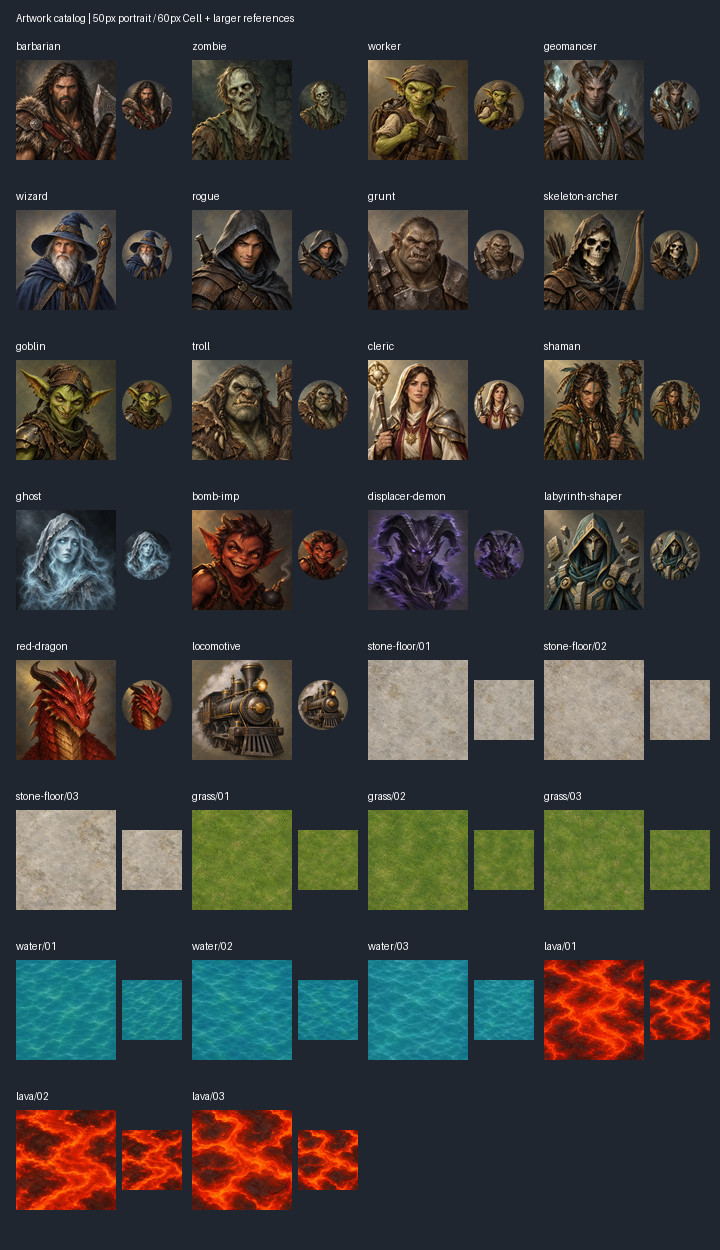
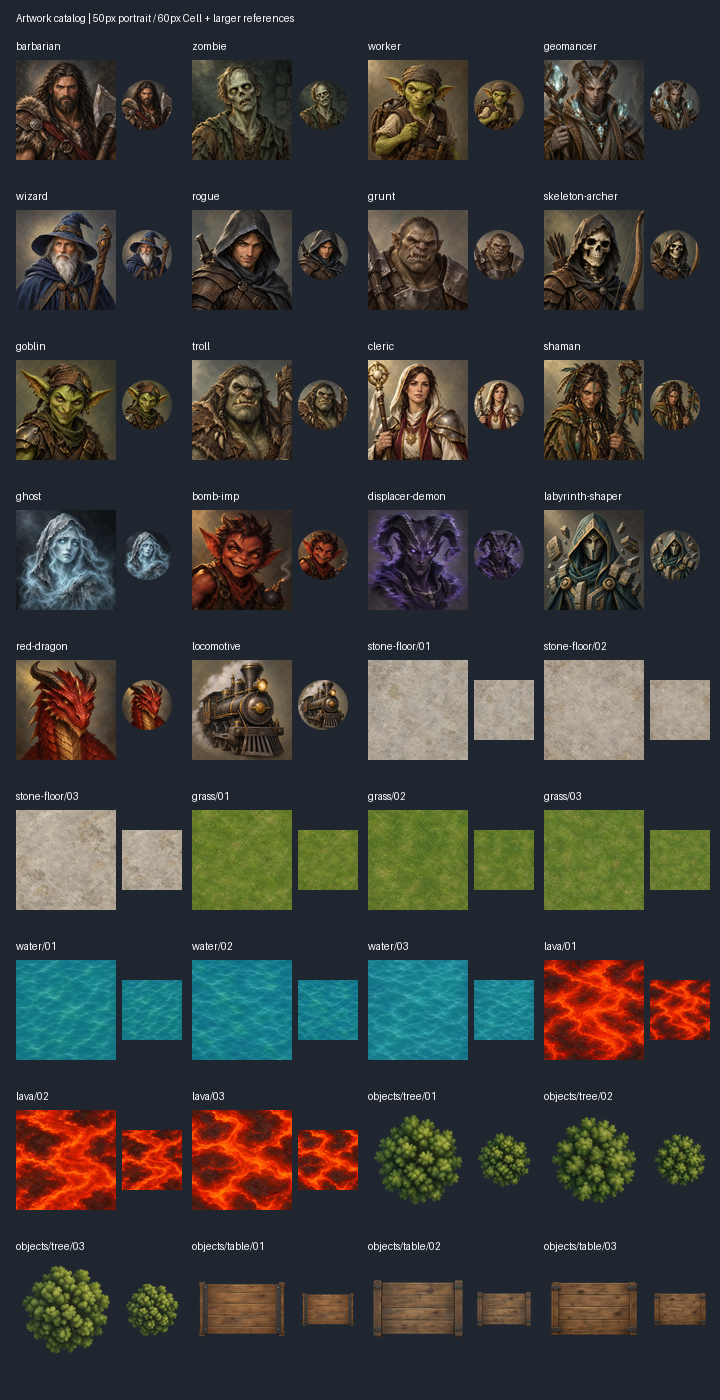
Add composite terrain artwork and deterministic rotation

diff --git a/ProjectDelve.Web/wwwroot/board-visuals.js b/ProjectDelve.Web/wwwroot/board-visuals.js
@@ -4,32 +4,34 @@
 export const boardVisuals = {
   terrain: {
     default: { fill: "#666a68", detail: "repeating-linear-gradient(0deg, transparent 0 48%, #242d3040 49% 51%, transparent 52% 100%)" },
-    StoneFloor: { fill: "#666a68", detail: "repeating-linear-gradient(90deg, transparent 0 48%, #29323855 49% 51%, transparent 52% 100%)",
+    StoneFloor: { rotation: true, fill: "#666a68", detail: "repeating-linear-gradient(90deg, transparent 0 48%, #29323855 49% 51%, transparent 52% 100%)",
       variants: [
         { fill: "#666a68", image: "./art/terrain/stone-floor/01.webp" },
         { fill: "#626864", image: "./art/terrain/stone-floor/02.webp" },
         { fill: "#6b6c65", image: "./art/terrain/stone-floor/03.webp" }
       ] },
-    Grass: { fill: "#476947", detail: "repeating-linear-gradient(115deg, transparent 0 7px, #abc27825 8px, transparent 10px)",
+    Grass: { rotation: true, fill: "#476947", detail: "repeating-linear-gradient(115deg, transparent 0 7px, #abc27825 8px, transparent 10px)",
       variants: [
         { image: "./art/terrain/grass/01.webp" },
         { image: "./art/terrain/grass/02.webp" },
         { image: "./art/terrain/grass/03.webp" }
       ] },
-    Tree: { fill: "#244737", detail: "radial-gradient(ellipse at 40% 40%, #638452 0 18%, #355b37 20% 43%, transparent 46%), radial-gradient(ellipse at 60% 60%, #436b40 0 38%, transparent 42%)" },
-    Water: { fill: "#266382", detail: "repeating-radial-gradient(ellipse at 15% 0%, transparent 0 8px, #9edce64a 9px 10px, transparent 12px 18px)",
+    Tree: { baseTerrain: "Grass", object: { rotation: true,
+      variants: [1, 2, 3].map(i => ({ image: `./art/terrain/objects/tree/0${i}.webp` })) }, fill: "#244737", detail: "radial-gradient(ellipse at 40% 40%, #638452 0 18%, #355b37 20% 43%, transparent 46%), radial-gradient(ellipse at 60% 60%, #436b40 0 38%, transparent 42%)" },
+    Water: { rotation: true, fill: "#266382", detail: "repeating-radial-gradient(ellipse at 15% 0%, transparent 0 8px, #9edce64a 9px 10px, transparent 12px 18px)",
       variants: [
         { image: "./art/terrain/water/01.webp" },
         { image: "./art/terrain/water/02.webp" },
         { image: "./art/terrain/water/03.webp" }
       ] },
-    Lava: { fill: "#a64420", detail: "repeating-linear-gradient(32deg, #352b2a 0 5px, transparent 7px 13px, #ffb349 15px 17px, transparent 19px 25px)",
+    Lava: { rotation: true, fill: "#a64420", detail: "repeating-linear-gradient(32deg, #352b2a 0 5px, transparent 7px 13px, #ffb349 15px 17px, transparent 19px 25px)",
       variants: [
         { image: "./art/terrain/lava/01.webp" },
         { image: "./art/terrain/lava/02.webp" },
         { image: "./art/terrain/lava/03.webp" }
       ] },
-    StoneFloorWithTable: { fill: "#636665", detail: "linear-gradient(90deg, transparent 16%, #291d17 17% 20%, #997049 21% 46%, #63462d 47% 50%, #997049 51% 79%, #291d17 80% 83%, transparent 84%)" },
+    StoneFloorWithTable: { baseTerrain: "StoneFloor", object: { rotation: true,
+      variants: [1, 2, 3].map(i => ({ image: `./art/terrain/objects/table/0${i}.webp` })) }, fill: "#636665", detail: "linear-gradient(90deg, transparent 16%, #291d17 17% 20%, #997049 21% 46%, #63462d 47% 50%, #997049 51% 79%, #291d17 80% 83%, transparent 84%)" },
     Rail: { fill: "#766d5d", detail: "repeating-linear-gradient(0deg, transparent 0 7px, #342e29 8px 12px, transparent 13px 18px)" }
   },
   unit: {
@@ -81,19 +83,55 @@ export function terrainVariantIndex(seed, id, x, y, count) {
   return count > 0 ? hash % count : 0;
 }
 
+// Independent FNV-1a domain for quarter turns. Never change terrain-v1.
+export function terrainRotation(seed, id, x, y, layer = "base") {
+  const input = JSON.stringify(["terrain-rotation-v1", String(seed), id, x, y, layer]);
+  let hash = 2166136261;
+  for (let i = 0; i < input.length; i++) {
+    const code = input.charCodeAt(i);
+    hash = Math.imul(hash ^ (code & 255), 16777619) >>> 0;
+    hash = Math.imul(hash ^ (code >>> 8), 16777619) >>> 0;
+  }
+  // Mix upper bits into the low bits before choosing one of four turns.
+  return ((hash ^ (hash >>> 16)) >>> 0) % 4 * 90;
+}
+
+export function terrainLayers(id, context = {}) {
+  const entry = Object.hasOwn(boardVisuals.terrain, id) ? boardVisuals.terrain[id] : {};
+  const seed = context.seed ?? "legacy", x = context.x ?? 0, y = context.y ?? 0;
+  const baseId = entry.baseTerrain ?? id;
+  const baseEntry = entry.baseTerrain ? (boardVisuals.terrain[baseId] ?? {}) : entry;
+  const variants = baseEntry.variants ?? [];
+  const index = terrainVariantIndex(seed, baseId, x, y, variants.length);
+  const base = { ...boardVisuals.terrain.default, ...baseEntry, ...variants[index], ...baseEntry.directions?.[context.direction] };
+  const objectVariants = entry.object?.variants ?? [];
+  const objectIndex = terrainVariantIndex(seed, `${id}:object`, x, y, objectVariants.length);
+  return {
+    base, index,
+    rotation: base.rotation ? terrainRotation(seed, id, x, y, "base") : 0,
+    object: entry.object ? { ...entry.object, ...objectVariants[objectIndex] } : null,
+    objectIndex,
+    objectRotation: entry.object?.rotation ? terrainRotation(seed, id, x, y, "object") : 0,
+    objectDetail: entry.detail ?? "none"
+  };
+}
+
 export function applyBoardVisual(node, category, id, context = {}) {
   const entries = boardVisuals[category];
   const entry = Object.hasOwn(entries, id) ? entries[id] : {};
-  const variants = entry.variants ?? [];
-  const index = category === "terrain" && variants.length
-    ? terrainVariantIndex(context.seed ?? "legacy", id, context.x ?? 0, context.y ?? 0, variants.length) : 0;
+  const layers = category === "terrain" ? terrainLayers(id, context) : null;
   // A directional image may override a variant without rotating directional Rail.
-  const visual = { ...entries.default, ...entry, ...variants[index], ...entry.directions?.[context.direction] };
+  const visual = layers?.base ?? { ...entries.default, ...entry, ...entry.variants?.[0], ...entry.directions?.[context.direction] };
   node.dataset.visualId = id ?? "";
-  node.dataset.visualVariant = String(index);
+  node.dataset.visualVariant = String(layers?.index ?? 0);
   node.style.setProperty("--visual-image", visual.image ? `url(${JSON.stringify(visual.image)})` : "none");
   node.style.setProperty("--visual-fill", visual.fill ?? "transparent");
   node.style.setProperty("--visual-detail", visual.detail ?? "none");
+  if (layers) {
+    node.dataset.visualRotation = String(layers.rotation);
+    node.style.setProperty("--visual-rotation", `${layers.rotation}deg`);
+    applyTerrainObject(node, layers);
+  }
   if (category === "edge") applyEdgeArtwork(node, visual.image);
   return visual;
 }
@@ -120,6 +158,50 @@ function applyEdgeArtwork(node, source) {
   }
   if (image.dataset.source !== source) {
     node.dataset.edgeArtwork = "loading";
+    image.dataset.source = source;
+    image.src = source;
+  }
+}
+
+function applyTerrainObject(node, layers) {
+  let image = node.terrainObjectArtwork;
+  if (!layers.object) {
+    image?.remove();
+    node.terrainObjectArtwork = null;
+    delete node.dataset.terrainObject;
+    delete node.dataset.objectArtwork;
+    delete node.dataset.objectVariant;
+    delete node.dataset.objectRotation;
+    return;
+  }
+  node.dataset.terrainObject = "true";
+  node.dataset.objectVariant = String(layers.objectIndex);
+  node.dataset.objectRotation = String(layers.objectRotation);
+  node.style.setProperty("--object-rotation", `${layers.objectRotation}deg`);
+  node.style.setProperty("--object-detail", layers.objectDetail);
+  if (!image) {
+    image = document.createElement("img");
+    image.className = "terrain-object-artwork";
+    image.alt = "";
+    image.draggable = false;
+    image.setAttribute("aria-hidden", "true");
+    node.terrainObjectArtwork = image;
+    image.addEventListener("load", () => {
+      if (node.terrainObjectArtwork === image) node.dataset.objectArtwork = "ready";
+    });
+    image.addEventListener("error", () => {
+      if (node.terrainObjectArtwork === image) node.dataset.objectArtwork = "missing";
+    });
+  }
+  // renderState clears Cell children even when it retains the Cell itself.
+  node.append(image);
+  const source = layers.object.image;
+  if (!source) {
+    node.dataset.objectArtwork = "missing";
+    image.removeAttribute("src");
+    delete image.dataset.source;
+  } else if (image.dataset.source !== source) {
+    node.dataset.objectArtwork = "loading";
     image.dataset.source = source;
     image.src = source;
   }

diff --git a/ProjectDelve.Web/wwwroot/board-enhanced.css b/ProjectDelve.Web/wwwroot/board-enhanced.css
@@ -2,6 +2,7 @@
 .board-view-toolbar { margin-bottom: 12px; }
 .board-scroll:has(#board[data-view="enhanced"]) { overflow: auto; padding: 5px; }
 .machine-art { display: none !important; }
+#board .terrain-object-artwork { display: none; pointer-events: none; }
 #board .edge-artwork { display: none; pointer-events: none; }
 #board[data-view="enhanced"] {
   /* Pan large boards instead of shrinking tokens and hit targets indefinitely. */
@@ -10,10 +11,29 @@
   background: #363f40;
 }
 #board[data-view="enhanced"] .cell {
-  position: relative; border-color: #202c32a0;
+  position: relative; isolation: isolate; border-color: #202c32a0;
+  background: var(--visual-fill);
+  background-size: cover; box-shadow: inset 0 1px #ffffff20, inset 1px 0 #ffffff12; color: #f3efdf;
+}
+/* Rotate decoration only. Negative stack levels stay inside the isolated Cell,
+   below content and outlines; square bounds stay fixed. */
+#board[data-view="enhanced"] .cell::before {
+  content: ""; position: absolute; inset: 0; z-index: -2; pointer-events: none;
   background-color: var(--visual-fill);
   background-image: var(--visual-image), var(--visual-detail), linear-gradient(145deg, #ffffff12, #00000026);
-  background-size: cover; box-shadow: inset 0 1px #ffffff20, inset 1px 0 #ffffff12; color: #f3efdf;
+  background-size: cover; background-position: center;
+  transform: rotate(var(--visual-rotation, 0deg));
+}
+#board[data-view="enhanced"] .cell[data-terrain-object]::after {
+  content: ""; position: absolute; inset: 0; z-index: -1; pointer-events: none;
+  background-image: var(--object-detail); background-size: cover;
+  transform: rotate(var(--object-rotation, 0deg));
+}
+#board[data-view="enhanced"] .cell[data-object-artwork="ready"]::after { display: none; }
+#board[data-view="enhanced"] .cell[data-object-artwork="ready"] .terrain-object-artwork {
+  display: block; position: absolute; inset: 0; z-index: -1;
+  width: 100%; height: 100%; object-fit: contain; object-position: center;
+  transform: rotate(var(--object-rotation, 0deg));
 }
 #board[data-view="enhanced"] .terrain-label { display: none; }
 #board[data-view="enhanced"] .cell-coordinates { position: absolute; top: 2%; left: 4%; z-index: 1; text-shadow: 0 1px 2px #000; }
@@ -88,7 +108,7 @@
 }
 /* Feedback stays above every material/artwork. */
 #board[data-view="enhanced"] .cell.legal { outline: 3px solid #9bdfff; outline-offset: -4px; box-shadow: inset 0 0 0 5px #153a51c0; }
-#board[data-view="enhanced"] .cell.placement-preview { box-shadow: inset 0 0 0 3px #ffe084; }
+#board[data-view="enhanced"] .cell.placement-preview { outline: 3px solid #ffe084; outline-offset: -3px; box-shadow: inset 0 0 0 3px #ffe084; }
 #board[data-view="enhanced"] .board-choice[aria-disabled="false"]:hover,
 #board[data-view="enhanced"] .board-choice:focus-visible,
 #board[data-view="enhanced"] .figure.affected-preview { outline: 3px solid #ffe084; outline-offset: -3px; }

diff --git a/tools/prepare-artwork.py b/tools/prepare-artwork.py
@@ -28,6 +28,8 @@ ASSETS = [
                    "labyrinth-shaper", "red-dragon", "locomotive")],
     *[(f"terrain/{name}-{i:02}.png", f"terrain/{name}/{i:02}.webp", 256)
       for name in ("stone-floor", "grass", "water", "lava") for i in range(1, 4)],
+    *[(f"terrain/objects/{name}-{i:02}.png", f"terrain/objects/{name}/{i:02}.webp", 256)
+      for name in ("tree", "table") for i in range(1, 4)],
     *[(f"edges/{name}.png", f"edges/{name}.webp", (512, 80)) for name in EDGE_CROPS],
 ]
 
@@ -47,12 +49,15 @@ def main():
             print(f"Source {name}: {original.size}, {original.mode}, {original.format}")
             if not name.startswith("edges/"):
                 assert original.width == original.height, f"Review non-square source: {name}"
-                if name.startswith("terrain/"):
+                if name.startswith("terrain/") and not name.startswith("terrain/objects/"):
                     assert original.convert("RGBA").getchannel("A").getextrema() == (255, 255), f"Review transparent terrain: {name}"
             else:
                 assert original.size == (1774, 887) and original.mode == "RGBA", f"Review changed Edge source: {name}"
                 bounds = original.getchannel("A").point(lambda a: 255 if a >= 8 else 0).getbbox()
                 assert bounds == EDGE_CROPS[Path(name).stem], f"Review changed Edge composition: {name}"
+            if name.startswith("terrain/objects/"):
+                alpha = original.convert("RGBA").getchannel("A")
+                assert alpha.getextrema()[0] == 0 and alpha.getextrema()[1] > 0, f"Review object alpha: {name}"
             assert getattr(original, "n_frames", 1) == 1, f"Review animated source: {name}"
 
     srgb = ImageCms.createProfile("sRGB")
@@ -88,7 +93,7 @@ def main():
             assert result.format == "WEBP"
             assert result.size == dimensions
             assert result.info.get("icc_profile") == profile
-            if name.startswith("terrain/"):
+            if name.startswith("terrain/") and not name.startswith("terrain/objects/"):
                 assert result.convert("RGBA").getchannel("A").getextrema() == (255, 255)
             if image.mode == "RGBA":
                 assert result.getchannel("A").tobytes() == image.getchannel("A").tobytes()
@@ -104,7 +109,9 @@ def main():
         print(f"Export {destination}: {dimensions[0]}x{dimensions[1]}, {target.stat().st_size:,} bytes")
 
     # Roughly 50px portraits (circular UI clip) and 60px Cells, plus larger references.
-    edge_preview(decoded[-3:])
+    edge_preview([image for asset, image in zip(assets, decoded) if asset[0].startswith("edges/")])
+    if not args.edges_only:
+        composite_preview(assets, decoded)
     assert all(sha256(path.read_bytes()).digest() == digest
                for path, digest in hashes.items()), "Source images changed"
     if args.edges_only:
@@ -117,10 +124,11 @@ def main():
         x, y = 16 + (i % 4) * 176, 40 + (i // 4) * 150
         label = Path(destination).with_suffix("").as_posix().replace("terrain/", "").replace("units/", "")
         draw.text((x, y), label, fill="white")
-        sheet.paste(image.resize((100, 100), Image.Resampling.LANCZOS), (x, y + 20))
+        reference = image.resize((100, 100), Image.Resampling.LANCZOS)
+        sheet.paste(reference, (x, y + 20), reference)
         is_portrait = Path(destination).parts[0] == "units"
         thumb = image.resize((50, 50) if is_portrait else (60, 60), Image.Resampling.LANCZOS)
-        mask = None
+        mask = thumb
         if is_portrait:
             mask = Image.new("L", (200, 200))
             ImageDraw.Draw(mask).ellipse((0, 0, 199, 199), fill=255)
@@ -129,6 +137,26 @@ def main():
     preview = ROOT / "assets/previews/artwork-pack-01.png"
     preview.parent.mkdir(parents=True, exist_ok=True)
     sheet.save(preview, optimize=True)
+
+
+def composite_preview(assets, images):
+    """Test-owned samples at minimum Cell scale, all base/object slots and turns."""
+    catalog = {asset[1]: image for asset, image in zip(assets, images)}
+    sheet = Image.new("RGB", (768, 520), "#202630")
+    draw = ImageDraw.Draw(sheet)
+    draw.text((12, 8), "Composite terrain | 60px Cells | base/object variants + independent turns", fill="white")
+    for row, (obj, base) in enumerate((("tree", "grass"), ("table", "stone-floor"))):
+        for variant in range(3):
+            for turn in range(4):
+                x = 12 + (variant * 4 + turn) * 62
+                y = 40 + row * 232
+                tile = catalog[f"terrain/{base}/{variant + 1:02}.webp"].rotate(turn * 90)
+                overlay = catalog[f"terrain/objects/{obj}/{(variant + turn) % 3 + 1:02}.webp"].rotate((turn + 1) * 90)
+                tile = Image.alpha_composite(tile, overlay)
+                sheet.paste(tile.resize((60, 60), Image.Resampling.LANCZOS), (x, y))
+                if turn == 0:
+                    sheet.paste(tile.resize((160, 160), Image.Resampling.LANCZOS), (12 + variant * 248, y + 64))
+    sheet.save(ROOT / "assets/previews/composite-terrain.png", optimize=True)
 
 
 def edge_preview(images):

diff --git a/tools/test_prepare_artwork.py b/tools/test_prepare_artwork.py
@@ -1,0 +1,46 @@
+"""Verify the registered transparent exports against their immutable originals.
+
+Run: python -m unittest discover -s tools -p test_prepare_artwork.py
+Requires the same Pillow/WebP environment as prepare-artwork.py.
+"""
+import importlib.util
+from io import BytesIO
+from pathlib import Path
+import unittest
+
+from PIL import Image, ImageCms, ImageOps
+
+spec = importlib.util.spec_from_file_location("prepare_artwork", Path(__file__).with_name("prepare-artwork.py"))
+pipeline = importlib.util.module_from_spec(spec)
+spec.loader.exec_module(pipeline)
+
+
+class CompositeArtworkTests(unittest.TestCase):
+    def test_transparent_object_registrations_and_lossless_resized_alpha(self):
+        registrations = {source: (destination, size) for source, destination, size in pipeline.ASSETS}
+        for name in ("tree", "table"):
+            for slot in range(1, 4):
+                source = f"terrain/objects/{name}-{slot:02}.png"
+                with self.subTest(source=source):
+                    destination, size = registrations[source]
+                    self.assertEqual(destination, f"terrain/objects/{name}/{slot:02}.webp")
+                    self.assertEqual(size, 256)
+                    with Image.open(pipeline.SOURCE / source) as original:
+                        original.load()
+                        self.assertEqual(original.format, "PNG")
+                        self.assertEqual(original.mode, "RGBA")
+                        expected = ImageOps.exif_transpose(original).resize((256, 256), Image.Resampling.LANCZOS)
+                    with Image.open(pipeline.OUTPUT / destination) as exported:
+                        exported.load()
+                        self.assertEqual(exported.format, "WEBP")
+                        self.assertEqual(exported.size, (256, 256))
+                        alpha = exported.getchannel("A")
+                        self.assertEqual(alpha.tobytes(), expected.getchannel("A").tobytes())
+                        self.assertEqual(alpha.getextrema()[0], 0)
+                        self.assertGreater(alpha.getextrema()[1], 0)
+                        self.assertEqual(ImageCms.getProfileName(ImageCms.ImageCmsProfile(
+                            BytesIO(exported.info['icc_profile']))).strip(), 'sRGB built-in')
+
+
+if __name__ == "__main__":
+    unittest.main()

diff --git a/README.md b/README.md
@@ -114,13 +114,28 @@ boardVisuals.terrain.Rail.directions = { North: { image: "./art/terrain/rail/nor
 boardVisuals.edge.Wall = { image: "./art/edges/wall.webp" };
 ```
 
-Portrait images use `object-fit: cover` in a circular clip; load failures preserve the abbreviation/icon. Terrain, Resource and Machine artwork layers use CSS `background-size: cover` over the fallback material. Edge artwork uses a proportional image child with loading/error fallbacks and 90° rotation for vertical use, as detailed below. Resource/Machine glyphs remain overlaid unless the catalog explicitly sets `glyph: ""`. Do not embed paths or image-loading logic in interactions. Variants are ordered arrays of descriptor overrides (`image`, `fill`, `detail`, `glyph`); category default, content entry, chosen variant, then optional direction overrides are merged in that order. Rail uses North/East/South/West; Edges use Horizontal/Vertical. No automatic image rotations change a Rail arrow.
+Portrait images use `object-fit: cover` in a circular clip; load failures preserve the abbreviation/icon. Terrain base, Resource and Machine artwork layers use CSS `background-size: cover` over the fallback material. Terrain bases rotate on a decorative pseudo-element; transparent terrain objects use a centered `object-fit: contain` image child. Edge artwork uses a proportional image child with loading/error fallbacks and 90° rotation for vertical use, as detailed below. Resource/Machine glyphs remain overlaid unless the catalog explicitly sets `glyph: ""`. Do not embed paths or image-loading logic in interactions. Variants are ordered arrays of descriptor overrides (`image`, `fill`, `detail`, `glyph`); category default, content entry, chosen variant, then optional direction overrides are merged in that order. Rail uses North/East/South/West; Edges use Horizontal/Vertical. No automatic image rotations change a Rail arrow.
 
 **Deterministic variants:** the host emits optional top-level `visualSeed` as browser presentation metadata in HTTP responses, streaming baselines, events and boundaries. `BoardAppearance.DeriveSeed` runs once at initial setup and each scenario replacement/restart. It computes `"board-v1:" + lowercaseHex(SHA256(UTF8(canonicalJSON)))`. Canonical JSON is the compact array `[1, scenarioId, width, height, cells, edges]`. Cells cover the full Board in y-then-x order as `[x,y,terrainKindName,railDirectionNameOrNull]`, treating omitted terrain as StoneFloor. None Edges are omitted; endpoints are normalized in y-then-x order, then Edges are sorted by first endpoint y/x and second endpoint y/x, and stored as `[ax,ay,bx,by,edgeKindName]`. Property/list insertion order and explicit default terrain do not affect the seed. Resources, Units, Machines, controllers, sessions and gameplay RNG are excluded. Imports use scenario ID `imported`, so different imported board materials/geometries can have different seeds; identical initial boards intentionally share distributions. Initial terrain/Edge edits can reroll the distribution, but runtime board changes never recompute the seed.
 
 For each terrain Cell, `terrainVariantIndex` hashes `JSON.stringify(["terrain-v1", String(seed), terrainContentId, x, y])` with FNV-1a over UTF-16LE bytes: unsigned 32-bit offset 2166136261, XOR each code unit's low byte then multiply by 16777619, then XOR its high byte and multiply again, using `Math.imul` and `>>> 0` after each multiplication. Take unsigned hash modulo variant count (zero for an empty list). This is independent of browser/runtime hash functions and randomness; fixed vectors cover ASCII and surrogate pairs. Array order/count is part of the visual asset contract, so changing it may change assigned artwork. Legacy responses without a seed use `scenario:${scenarioId ?? "legacy"}`. A future persisted explicit seed can replace the host's derivation at setup and use the same `visualSeed` field and selection algorithm; no engine or client interaction changes are needed.
 
 **First artwork pack specifications:** use the visual brief in `VISUAL_STYLE.md`; review the pilot set together at actual board scale before expanding it. Use sRGB WebP (PNG when alpha/quality needs it), no animation, and serve local static files through the catalog. Do not embed names, HP, Side colors, rings, frames, UI highlights, coordinates or rules text. Lighting should be consistent and details should remain legible when reduced to roughly 50 pixels.
+
+**Composite Terrain and rotation:** `Tree.baseTerrain = "Grass"` and `StoneFloorWithTable.baseTerrain = "StoneFloor"` reuse those base catalogs, including their existing three ordered slots and fallback materials. Each composite entry declares an `object` descriptor with three variants. Base variants use the base content ID with the unchanged `terrainVariantIndex`; object variants use `${terrainContentId}:object` as their separate ID. Neither count affects the other layer. These are presentation mappings only; Terrain kinds and properties remain authoritative and unchanged.
+
+`rotation: true` explicitly opts a descriptor into deterministic 0°/90°/180°/270° rotation. It is enabled on Stone Floor, Grass, Water, Lava, Tree objects and Table objects. Unit portraits, Edges, Rail, Machines and Resources have no such opt-in. `terrainRotation` hashes `JSON.stringify(["terrain-rotation-v1", String(seed), terrainContentId, x, y, layer])` with the same UTF-16LE FNV-1a byte operations described above, then uses `((hash ^ (hash >>> 16)) >>> 0) % 4 * 90`. The layer is `"base"` or `"object"`. Rotation uses neither variant counts nor gameplay RNG. It uses the existing host seed through refresh, rerender and playback without changing seed derivation or any Stone Floor variant vectors.
+
+Only decoration rotates; Cell geometry, pointers, legal choices and playback targets stay on the original nodes. Terrain decoration is clipped to the Cell and stays below Units, Resources, Machine labels, coordinates and interaction feedback. Object loading failures retain the existing Tree/Table material silhouette over the base; successful loads clear that silhouette so the artwork's alpha reveals the base. Missing base textures retain their material fallback. Classic View hides the object child and uses its existing terrain styles; the Level Designer is unchanged.
+
+The six immutable RGBA PNG originals under `assets/source/terrain/objects/` are 1254 × 1254, centered and already transparent, without profiles, EXIF orientation or animation. The full `tools/prepare-artwork.py` pipeline exports them without cropping, padding, alpha cleanup or retouching at 256 × 256 using the existing sRGB/Lanczos/WebP quality 85/method 6 settings. Alpha is verified byte-for-byte against the resized RGBA image (Tree originals intentionally include partially transparent interiors).
+
+| Originals under `terrain/objects/` | Catalog object | Runtime paths under `wwwroot/art/` | Bytes in slot order |
+| --- | --- | --- | --- |
+| `tree-01.png` … `tree-03.png` | `terrain.Tree.object` | `terrain/objects/tree/01.webp` … `03.webp` | 26,106 / 25,584 / 26,460 |
+| `table-01.png` … `table-03.png` | `terrain.StoneFloorWithTable.object` | `terrain/objects/table/01.webp` … `03.webp` | 9,958 / 11,226 / 11,210 |
+
+All 39 source originals are registered; every runtime asset has a source. Existing runtime pixels/profiles were verified unchanged apart from ICC creation dates, and their original bytes were retained. The updated [catalog sheet](assets/previews/artwork-pack-01.png) preserves alpha when drawing previews. The [composite preview](assets/previews/composite-terrain.png) shows test-owned Grass/Tree and Stone Floor/Table combinations with independent slots and quarter turns. These sheets do not constitute browser approval. Run `python -m unittest discover -s tools -p test_prepare_artwork.py` in the pipeline's Pillow environment to verify object registrations, exact dimensions, sRGB profiles and alpha preservation. Browser layout review remains pending when no connected browser is available.
 
 | Asset | Exact export size / ratio | Alpha and composition | Pilot quantity |
 | --- | --- | --- | --- |
@@ -177,7 +192,7 @@ For each terrain Cell, `terrainVariantIndex` hashes `JSON.stringify(["terrain-v1
 
 Terrain exports are opaque 256 × 256 full-bleed textures. The full export reproduced the existing sixteen exports' decoded pixels and sRGB profiles, apart from ICC creation dates; existing runtime bytes were preserved. The Stone Floor byte counts above correct outdated documentation. All 33 originals have registered pipeline exports and catalog mappings; no runtime assets lack sources. There are no competing or blocked files in this batch. Grass/Water/Lava now select among three images using the existing hash; their former material-only presentation therefore gains per-Cell variation. Stone Floor keeps its three slots/order, and seed derivation, hash/version and gameplay RNG are unchanged.
 
-The [contact sheet](assets/previews/artwork-pack-01.png) shows the portrait/terrain exports with 50-pixel circular portraits and 60-pixel terrain Cells beside larger references, labeled by portrait or terrain/slot; its height adjusts to the catalog size. It is an asset composition preview, not a browser screenshot. The pipeline fully decodes sources and exports, checks opaque terrain and lossless Edge alpha, and compares hashes for all source files, including unregistered files. CSS token composition and renderer consumers are unchanged. Lava is intentionally more vivid than the other materials; highlight readability over it still requires browser review.
+The [contact sheet](assets/previews/artwork-pack-01.png) shows the portrait/terrain exports with 50-pixel circular portraits and 60-pixel terrain Cells beside larger references, labeled by portrait or terrain/slot; its height adjusts to the catalog size. It is an asset composition preview, not a browser screenshot. The pipeline fully decodes sources and exports, checks opaque base terrain and lossless Edge/object alpha, and compares hashes for all source files, including unregistered files. Lava is intentionally more vivid than the other materials; highlight readability over it still requires browser review.
 
 **Edge artwork:** the three originals in `assets/source/edges/` are 1774 × 887 RGBA PNGs with no embedded color profile. Their visible strips occupy only the middle of the source canvas. `python tools/prepare-artwork.py --edges-only` exports this batch and its [orientation/contact preview](assets/previews/edges.png) without rewriting Unit or terrain files. The full pipeline also includes Edges. Pillow with WebP support is required; an optional local `.artwork-venv` can hold this build-time dependency.
 

diff --git a/VISUAL_STYLE.md b/VISUAL_STYLE.md
@@ -67,6 +67,10 @@ These names are examples, not a demand to rename current content identifiers. Pr
 - The variant selection algorithm and hash must be stable across browsers and runtime versions. Avoid nondeterministic JavaScript hashes or `Math.random()`.
 - The visual seed must not change the engine's RNG, rules, or authoritative scenario state.
 
+The implemented catalog also supports explicit `rotation: true` on terrain base and object descriptors. Stone Floor, Grass, Water and Lava bases and Tree/Table objects opt into stable quarter turns using a separate `terrain-rotation-v1` hash domain and separate base/object salts. The existing `terrain-v1` variant algorithm and host seed lifecycle remain unchanged. Portraits, Edges, directional Rail, Machines and Resources do not opt in.
+
+Tree composes the existing Grass texture catalog with a transparent Tree object; Stone Floor with Table composes the existing Stone Floor catalog with a transparent Table object. Each object has three independently selected variants. Centered decoration rotates within the square Cell while geometry and hit targets stay fixed. Failed object loads retain the previous material silhouette; transparent pixels in successfully loaded images reveal the base. Units, Resources and feedback remain above decoration. Classic and the Level Designer retain their existing rendering. See README for source/export mappings and exact hash inputs.
+
 ## Asset-generation workflow (planned, not yet implemented)
 
 1. Start with a **small coherent pilot set**: Stone Floor variants, Wall, Door, Barbarian and Zombie portraits.

diff --git a/ASSET_PROMPTS.md b/ASSET_PROMPTS.md
@@ -347,6 +347,10 @@ The tile should be visually quiet and suitable for repeated use across many adja
 
 Choose three that read as variations of the same terrain, with similar lighting and scale. Avoid strong central highlights, noisy patterns, unintended internal grids and decorative features that distract from unit tokens or gameplay highlights. Inspect them together on a real board.
 
+## Integrated transparent terrain objects
+
+The supplied `assets/source/terrain/objects/tree-01.png` through `tree-03.png` and `table-01.png` through `table-03.png` are centered 1254 × 1254 RGBA originals with proper transparency. Preserve the entire square composition and original alpha; no background removal, crop or retouching is needed. The existing preparation pipeline exports optimized 256 × 256 sRGB WebP files under `art/terrain/objects/tree/` and `art/terrain/objects/table/`, in the same numeric slot order. Enhanced 2D composes them over the existing Grass and Stone Floor catalogs, respectively, with independent variant and quarter-turn choices. Review the generated composite and catalog previews and then the actual board at Cell size. This integration adds no new generation prompts or gameplay content.
+
 ## Future prompt candidates
 
 Coal, Diamond, Diamond Press and further Unit/Terrain art. New assets should match the same art direction. Originals remain separate from optimized `wwwroot/art/` files.
